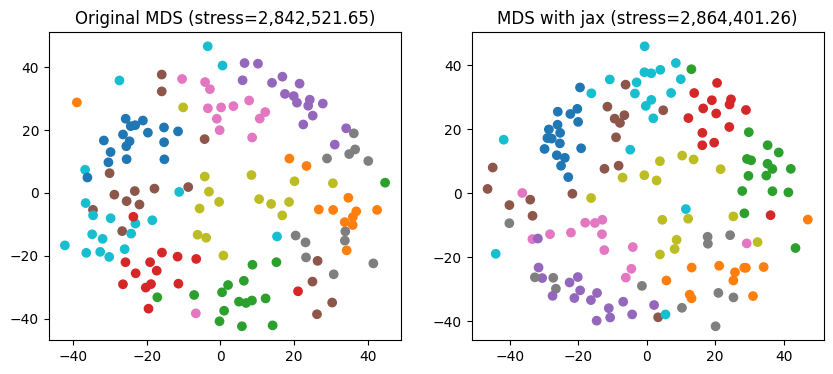
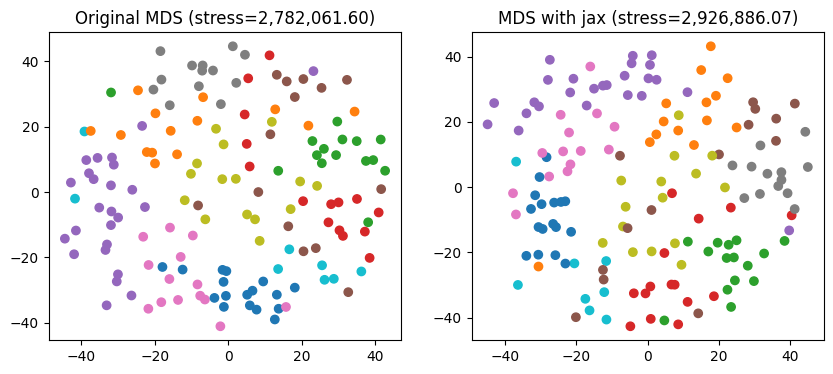
WIP ncx2 log pdf in case of nc=0

diff --git a/pmds/pmds.py b/pmds/pmds.py
@@ -7,7 +7,7 @@ import numpy as np
 import jax
 import jax.numpy as jnp
 from jax import random
-from jax.scipy.special import xlogy, i0e, i1e
+from jax.scipy.special import xlogy, gammaln, i0e, i1e
 from jax.test_util import check_grads
 
 from .utils import chunks
@@ -16,6 +16,17 @@ from .score import stress
 
 EPSILON = 1e-6
 SCALE = 1e-3
+
+
+def _x2_log_pdf(x, df=2):
+    # https://github.com/scipy/scipy/blob/v1.5.3/scipy/stats/_continuous_distns.py#L1265
+    # return (
+    #     xlogy(df / 2.0 - 1, x) - x / 2.0 - gammaln(df / 2.0) - (jnp.log(2) * df) / 2.0
+    # )
+    return -jnp.log(2.0) - gammaln(1.0) - x / 2.0
+
+
+x2_log_pdf = jax.jit(_x2_log_pdf)
 
 
 def _ncx2_log_pdf(x, df, nc):
@@ -39,20 +50,27 @@ def _ncx2_log_pdf(x, df, nc):
     # res += np.log(ive(df2, xs*ns) / 2.0)
 
     # assert jnp.all(nc > 0), "Encouting non-positive nc params of X-square dist."
-    xs, ns = jnp.sqrt(x), jnp.sqrt(nc)
+    xs, ns = jnp.sqrt(x + EPSILON), jnp.sqrt(nc + EPSILON)
     res = -jnp.log(2.0) - 0.5 * (xs - ns) ** 2
-    if df == 2:
-        res += jnp.log(i0e(xs * ns))
-    elif df == 4:
-        res += 0.5 * (jnp.log(x) - jnp.log(nc))
-        res += jnp.log(i1e(xs * ns))
-    else:
-        raise ValueError("logpdf of NonCentral X-square only support dof of 2 or 4")
+    res = res + jnp.log(i0e(xs * ns))
+    # if df == 2:
+    #     res = res + jnp.log(i0e(xs * ns))
+    # elif df == 4:
+    #     res = res + 0.5 * (jnp.log(x) - jnp.log(nc))
+    #     res = res + jnp.log(i1e(xs * ns))
+    # else:
+    #     raise ValueError("logpdf of NonCentral X-square only support dof of 2 or 4")
     return res.reshape(())
 
 
+ncx2_log_pdf = jax.jit(_ncx2_log_pdf)
+
+
 def _ncx2_pdf(x, df, nc):
-    return jnp.exp(_ncx2_log_pdf(x, df, nc))
+    return jnp.exp(ncx2_log_pdf(x, df, nc))
+
+
+ncx2_pdf = jax.jit(_ncx2_pdf)
 
 
 def pmds(
@@ -109,8 +127,8 @@ def pmds(
     # init mu and sigma square. Transform unconstrained sigma square `ss_unc` to `ss`.
     # https://github.com/tensorflow/probability/issues/703
     key_m, key_s = random.split(random.PRNGKey(random_state))
-    # ss_unc = random.normal(key_s, (n_samples,))
-    ss_unc = jnp.ones((n_samples,))
+    ss_unc = random.normal(key_s, (n_samples,))
+    # ss_unc = jnp.ones((n_samples,))
     if init_mu is not None and init_mu.shape == (n_samples, n_components):
         mu = jnp.array(init_mu)
     else:
@@ -134,8 +152,9 @@ def pmds(
     # function to calculate log pdf of X-square for a single input `d` given the params.
     def loss_one_pair(mu_i, mu_j, s_i, s_j, d):
         s_ij = s_i + s_j + EPSILON  # try to avoid divided by zero
-        nc = jnp.divide(jnp.sum((mu_i - mu_j) ** 2), s_ij)
-        return -_ncx2_log_pdf(x=d, df=n_components, nc=nc)
+        nc = jnp.divide(jnp.linalg.norm(mu_i - mu_j) ** 2, s_ij)
+        # diff = 0.5 * (d - jnp.linalg.norm(mu_i / s_i - mu_j / s_j)) ** 2
+        return -ncx2_log_pdf(x=d, df=n_components, nc=nc)
 
     # prepare the log pdf function of one sample to run in batch mode
     loss_and_grads_batched = jax.jit(
@@ -174,9 +193,22 @@ def pmds(
             if jnp.any(jnp.isnan(loss_batch)):
                 raise ValueError(
                     "NaN encountered in loss value."
-                    "Check if the `nc` params of X-square dist. are non-positive"
+                    "Check if the `nc` params of X-square distribution are non-positive"
                 )
-            loss += jnp.mean(loss_batch)
+            for i, grad in enumerate(grads):
+                for j, (l, g) in enumerate(zip(loss_batch, grad)):
+                    if jnp.any(jnp.isnan(g)):
+                        print(j, l, g, dists[j], pair_indices[j])
+                        j0, j1 = pair_indices[j]
+                        print(mu_i[j0], mu_j[j0], ss_i[j0], ss_j[j1])
+                        print(
+                            loss_one_pair(
+                                mu_i[j0], mu_j[j0], ss_i[j0], ss_j[j1], dists[j]
+                            )
+                        )
+                        raise ValueError(f"Nan encountered in grads[{i}]")
+
+            loss += jnp.sum(loss_batch)
 
             # update gradient for the corresponding related indices
             grads_mu = jnp.concatenate((lr * grads[0], lr * grads[1]), axis=0)
@@ -185,7 +217,7 @@ def pmds(
             assert grads_mu.shape[0] == grads_ss.shape[0] == len(related_indices)
 
             # update gradient for mu
-            mu = jax.ops.index_add(mu, related_indices, -grads_mu / batch_size)
+            mu = jax.ops.index_add(mu, related_indices, -grads_mu)
 
             # update gradient for constrained variable ss
             # first, calculate gradient for unconstrained variable ss_unc
@@ -193,16 +225,14 @@ def pmds(
                 grads_ss * jax.nn.sigmoid(SCALE * ss_unc[related_indices]) * SCALE
             )
             # then, update the unconstrained variable ss_unc
-            ss_unc = jax.ops.index_add(
-                ss_unc, related_indices, -grads_ss_unc / batch_size
-            )
+            ss_unc = jax.ops.index_add(ss_unc, related_indices, -grads_ss_unc)
 
             # correct gradient for fixed points
             if fixed_points:
                 mu = jax.ops.index_update(mu, fixed_indices, fixed_pos)
                 ss_unc = jax.ops.index_update(ss_unc, fixed_indices, EPSILON)
 
-        loss = float(loss / (i + 1))
+        loss = float(loss / len(p_dists))
         mds_stress = (
             stress(debug_D_squareform, mu) if debug_D_squareform is not None else 0.0
         )

diff --git a/pmds/plot.py b/pmds/plot.py
@@ -12,13 +12,15 @@ def line(points, out_name="line.png"):
 
 def scatter(Z, Z_vars=None, labels=None, title="", ax=None, out_name="Z.png"):
     fig, ax = plt.subplots(1, 1, figsize=(6, 6)) if ax is None else (None, ax)
+    ax.set_xticks([])
+    ax.set_yticks([])
 
     p = {} if Z_vars is None else {"marker": "+"}
     if labels is None:
         ...
     elif isinstance(labels[0], str):
         for (x, y), s in zip(Z, labels):
-            ax.text(x, y * 1.05, s, ha="center", va="center")
+            ax.text(x, y, s, ha="center", va="center")
     else:
         p.update({"marker": "o", "c": labels, "cmap": "tab10"})
 
@@ -26,6 +28,7 @@ def scatter(Z, Z_vars=None, labels=None, title="", ax=None, out_name="Z.png"):
     ax.scatter(*Z.T, **p)
 
     if Z_vars is not None and Z_vars.shape == (Z.shape[0],):
+        p.update({"marker": "o"})
         ax.scatter(*Z.T, s=Z_vars * 500, alpha=0.05, **p)
 
     if fig is not None:

diff --git a/pmds/config.py b/pmds/config.py
@@ -108,12 +108,13 @@ pre_config = {
             n_samples=None,  # 10
             n_components=2,
             batch_size=0,
-            epochs=5,
-            learning_rate=1.0,
+            epochs=20,
+            learning_rate=0.2,
             random_state=42,
             std=False,
             pca=None,
-            # fixed_points=[(6, 0.0, 0.0), (0, 0.5, -0.1), (5, 0.25, -0.8)],
+            # fixed_points=[(0, 0.0, 0.0)],
+            # fixed_points=[(6, 0.0, 0.0), (0, 0.5, -0.1), (5, 0.25, -0.6)],
             ### params for MDS-jax
             epochs_mds=10,
             learning_rate_mds=10,
